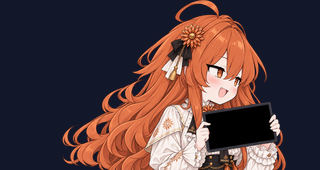
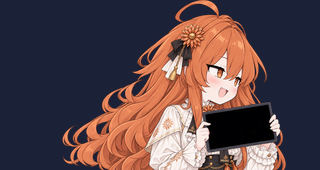
Brighten ESP32 artwork and add offline display demo

diff --git a/esp32-t-display-s3/src/main.cpp b/esp32-t-display-s3/src/main.cpp
@@ -43,7 +43,7 @@ static uint32_t pollIntervalMs = 30000;
 static uint32_t nextPoll = 0, retryNotBefore = 0, backoffMs = 30000;
 static uint32_t lastAnimation = 0, lastWifiTry = 0;
 static int64_t shownCents = 0, targetCents = 0;
-static bool hasBalance = false, isAnimating = false, needsDraw = true;
+static bool hasBalance = false, isAnimating = false, needsDraw = true, demoMode = false;
 static String serialLine;
 static int lastScrollPage = -1;
 
@@ -274,7 +274,7 @@ static void handleCommand(String line) {
   line.trim();
   if (line == "help") {
     Serial.println("wifi SSID|PASSWORD  /  api API_KEY  /  account HTTPS_ISSUER|TOKEN");
-    Serial.println("next / refresh / interval SECONDS / status / clear");
+    Serial.println("next / refresh / interval SECONDS / status / demo / stop / clear");
   } else if (line.startsWith("wifi ")) {
     String value = line.substring(5);
     const int sep = value.indexOf('|');
@@ -309,9 +309,23 @@ static void handleCommand(String line) {
     Serial.println("Account credential saved");
   } else if (line == "clear") {
     prefs.clear(); ssid = password = token = issuer = "";
-    authMode = AuthMode::None; hasBalance = false;
+    authMode = AuthMode::None; hasBalance = false; demoMode = false;
     WiFi.disconnect(true); linkState = LinkState::NeedWifi;
     Serial.println("Stored Wi-Fi and credentials cleared");
+  } else if (line == "demo") {
+    demoMode = true;
+    hasBalance = true;
+    isAnimating = false;
+    shownCents = targetCents = 3862;
+    linkState = LinkState::Ready;
+    Serial.println("Demo only: 38.62; no balance request or charge");
+  } else if (line == "stop") {
+    demoMode = false;
+    hasBalance = false;
+    linkState = ssid.isEmpty() ? LinkState::NeedWifi
+        : authMode == AuthMode::None ? LinkState::NeedKey : LinkState::Connecting;
+    nextPoll = millis();
+    Serial.println("Demo stopped");
   } else if (line == "next") {
     character = (character + 1) % 4; prefs.putUChar("character", character);
   } else if (line == "refresh") {
@@ -326,7 +340,7 @@ static void handleCommand(String line) {
   } else if (line == "status") {
     Serial.printf("Wi-Fi: %s; auth: %s; character: %s; balance: %s\n",
                   WiFi.status() == WL_CONNECTED ? "connected" : "disconnected",
-                  authMode == AuthMode::None ? "none" : authMode == AuthMode::ApiKey ? "API" : "account",
+                  demoMode ? "demo" : authMode == AuthMode::None ? "none" : authMode == AuthMode::ApiKey ? "API" : "account",
                   names[character], hasBalance ? money(shownCents).c_str() : "unknown");
   } else if (!line.isEmpty()) Serial.println("Unknown command. Type help.");
   needsDraw = true;
@@ -388,6 +402,11 @@ void setup() {
 void loop() {
   readSerial();
   handleButtons();
+  if (demoMode) {
+    if (needsDraw) drawScreen();
+    delay(10);
+    return;
+  }
   const uint32_t now = millis();
   if (ssid.isEmpty()) linkState = LinkState::NeedWifi;
   else if (WiFi.status() != WL_CONNECTED) {

diff --git a/esp32-t-display-s3/tools/make_assets.py b/esp32-t-display-s3/tools/make_assets.py
@@ -26,6 +26,11 @@ def main():
         canvas = Image.new("RGB", (320, 170), (18, 23, 42))
         x = (320 - source.width) // 2
         canvas.paste(source, (x, (170 - source.height) // 2), source)
+        # The 1.9-inch LCD reads darker than the desktop preview. Lift shadows
+        # gently while keeping the tablet's pure black area black.
+        gamma = 0.85
+        lut = [round(255 * (value / 255) ** gamma) for value in range(256)]
+        canvas = canvas.point(lut * 3)
         output = OUTPUT / f"{name}.jpg"
         canvas.save(output, "JPEG", quality=78, optimize=True, progressive=False, subsampling=0)
         print(f"{source_name}: {output.stat().st_size:,} bytes -> {output.name}")

diff --git a/esp32-t-display-s3/README.md b/esp32-t-display-s3/README.md
@@ -17,9 +17,9 @@ pio run -t upload --upload-port /dev/cu.usbmodemXXXX
 pio device monitor -p /dev/cu.usbmodemXXXX -b 115200
 ```
 
-请将端口替换为 `pio device list` 实际显示的开发板端口。只有确定端口属于 T-Display-S3 后再刷入；`/dev/cu.debug-console`、蓝牙和其他设备端口均不应猜测使用。该版本尚未在实机上验证画面和联网。
+请将端口替换为 `pio device list` 实际显示的开发板端口。只有确定端口属于 T-Display-S3 后再刷入；`/dev/cu.debug-console`、蓝牙和其他设备端口均不应猜测使用。本次已在检测到的 ESP32-S3（16 MB 闪存）上刷入，串口 `status` 命令有响应；屏幕画面和联网取余额仍需实机确认。
 
-若刷入失败，请按板上 **BOOT** 键同时按 **RST** 键进入下载模式，再重新检查端口。此操作可能覆盖板上原固件；如要保留出厂程序，先备份闪存。
+若刷入失败或看不到串口，请按 [LILYGO 官方步骤](https://github.com/Xinyuan-LilyGO/T-Display-S3#9-faq)进入下载模式：连接 USB，按住 **BOOT**，短按 **RST**，先松开 RST，再松开 BOOT，然后重新检查端口。此操作可能覆盖板上原固件；如要保留出厂程序，先备份闪存。
 
 ## 首次设置
 
@@ -36,7 +36,7 @@ api 你的DeepSeek_API_Key
 account https://凭证中的issuer|凭证中的token
 ```
 
-其他命令：`help` 查看帮助；`status` 查看连接状态（不打印密钥）；`next` 切换角色；`refresh` 立即刷新；`interval 30` 设置 10～300 秒刷新间隔；`clear` 清除设备上的 Wi-Fi 与凭证。设置保存在 ESP32 的 NVS 闪存，重启后仍可独立运行。它不是加密保险箱：持有并能读取设备闪存的人可能取得凭证。使用独立、可撤销的凭证更合适。
+其他命令：`help` 查看帮助；`status` 查看连接状态（不打印密钥）；`next` 切换角色；`refresh` 立即刷新；`interval 30` 设置 10～300 秒刷新间隔；`demo` 在平板显示示例数字 38.62（不联网、不保存、不扣费）；`stop` 退出演示；`clear` 清除设备上的 Wi-Fi 与凭证。设置保存在 ESP32 的 NVS 闪存，重启后仍可独立运行。它不是加密保险箱：持有并能读取设备闪存的人可能取得凭证。使用独立、可撤销的凭证更合适。
 
 **B1 / BOOT（GPIO0）** 键切换角色，**B2（GPIO14）** 键立即刷新。长金额在平板内逐段滚动；断网或请求失败时不显示旧金额。错误原因可通过 USB 串口的 `status` 和请求日志查看。屏幕没有触摸功能。
 
@@ -50,6 +50,6 @@ account https://凭证中的issuer|凭证中的token
 
 ## 图片与证书来源
 
-`data/` 中五张 JPEG 是由仓库内 macOS 原始 PNG 缩至 **320×170 输出画布**、角色画面宽约 255 像素后生成，合计约 **68 KB**。原 PNG 未被修改。运行 `uv run --with pillow python tools/make_assets.py` 可重建 JPEG 与模拟预览。
+`data/` 中五张 JPEG 是由仓库内 macOS 原始 PNG 缩至 **320×170 输出画布**、角色画面宽约 255 像素后生成，另为实机小屏轻微提亮暗部。原 PNG 未被修改。运行 `uv run --with pillow python tools/make_assets.py` 可重建 JPEG 与模拟预览。
 
-`data/x509_crt_bundle.bin` 使用 Espressif ESP-IDF v4.4 的 `gen_crt_bundle.py`，从 certifi 2026.7.22 的根证书集生成；它是公开的 CA 信息，不含账户密钥。证书集将来可能需要更新。构建依赖固定在 `platformio.ini`，本机已完成编译；真实显示效果、HTTPS 连接和实际余额仍须在已连接的开发板上验证。
+`data/x509_crt_bundle.bin` 使用 Espressif ESP-IDF v4.4 的 `gen_crt_bundle.py`，从 certifi 2026.7.22 的根证书集生成；它是公开的 CA 信息，不含账户密钥。证书集将来可能需要更新。构建依赖固定在 `platformio.ini`。刷写前保存的原机启动区与 SPIFFS 资料区备份放在本地 `factory-backups/`，该目录不纳入 Git；备份可能含设备原有数据，不要公开上传。

diff --git a/README.md b/README.md
@@ -37,7 +37,9 @@
 
 - 新增面向标准版 LILYGO T-Display-S3 的独立小屏固件。配置 Wi-Fi 与凭证后，设备可自行查询余额，并用两枚实体键切换四个角色或手动刷新。
 - 将角色原图另行缩小并压缩为屏幕专用 JPEG；屏幕上仅在角色手持平板内显示金额数字，长金额会滚动。原始 PNG 保持不变。
-- 提供[四角色模拟预览](esp32-t-display-s3/docs/four-characters-demo.png)与[刷机和配置说明](esp32-t-display-s3/README.md)。固件已编译，尚未完成开发板实机验证；macOS 当前发布版本仍为 v1.3.1。
+- 根据开发板实机画面反馈，轻微提亮屏幕专用 JPEG 的暗部，使角色在小屏上更清楚。
+- 新增不联网的示例数字演示，便于在不录入账号凭证时检查平板内的数字位置。
+- 提供[四角色模拟预览](esp32-t-display-s3/docs/four-characters-demo.png)与[刷机和配置说明](esp32-t-display-s3/README.md)。固件已编译并刷入 ESP32-S3，串口命令通过；屏幕及真实余额仍待实机确认。macOS 当前发布版本仍为 v1.3.1。
 
 ### v1.3.1 · 离线抱盆状态
 
